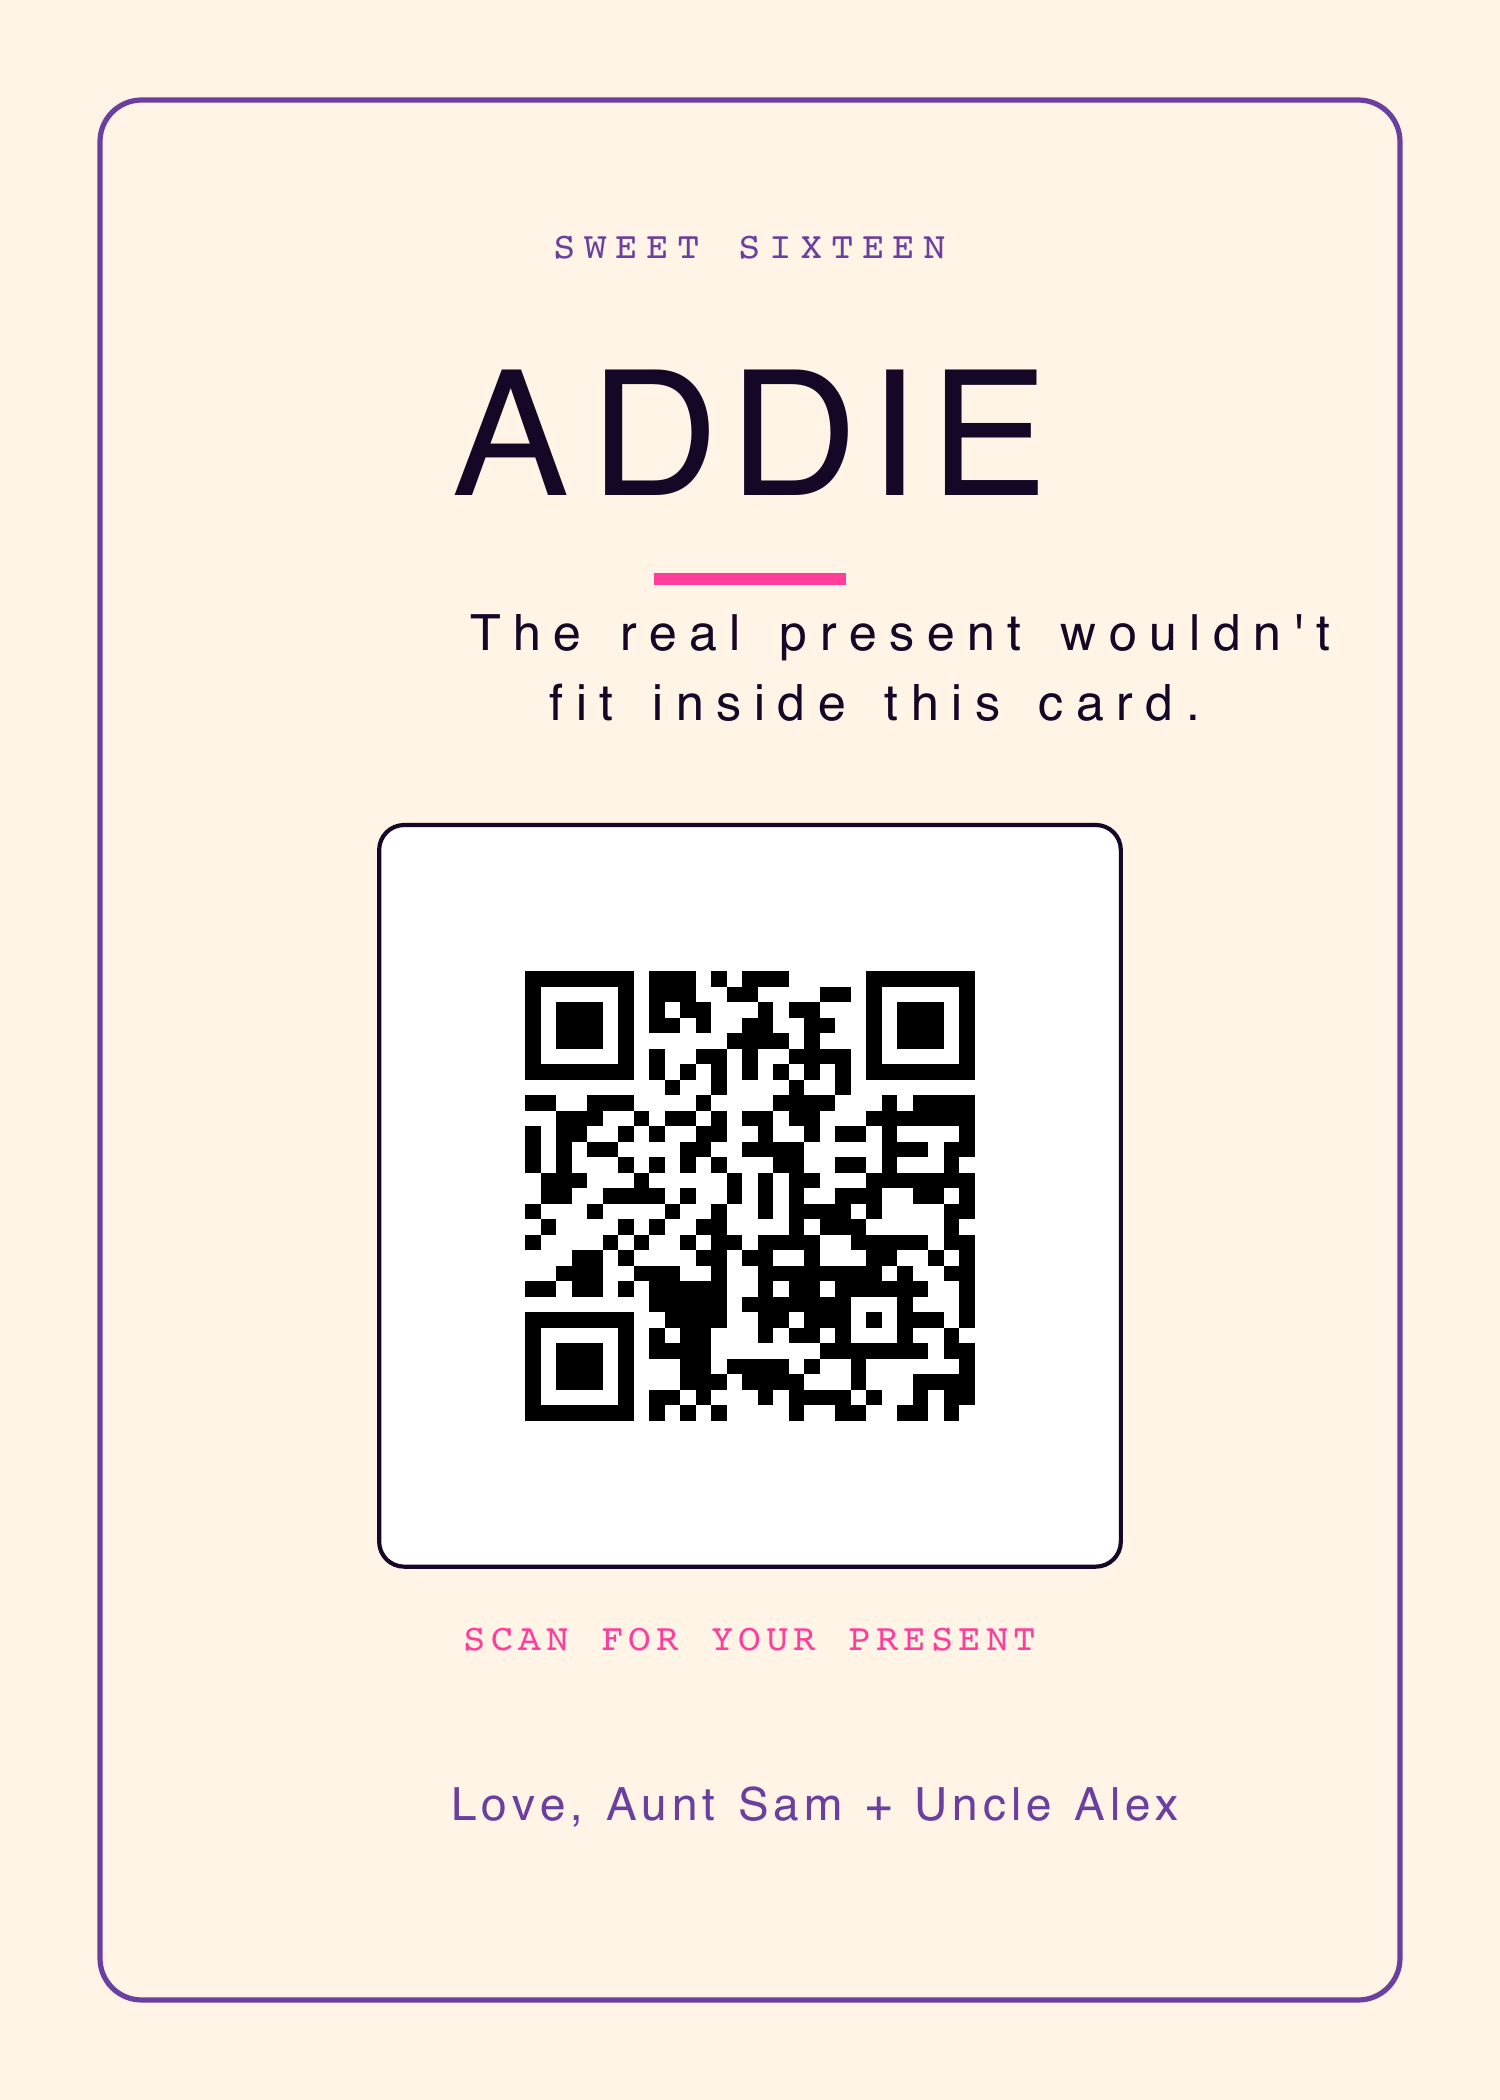
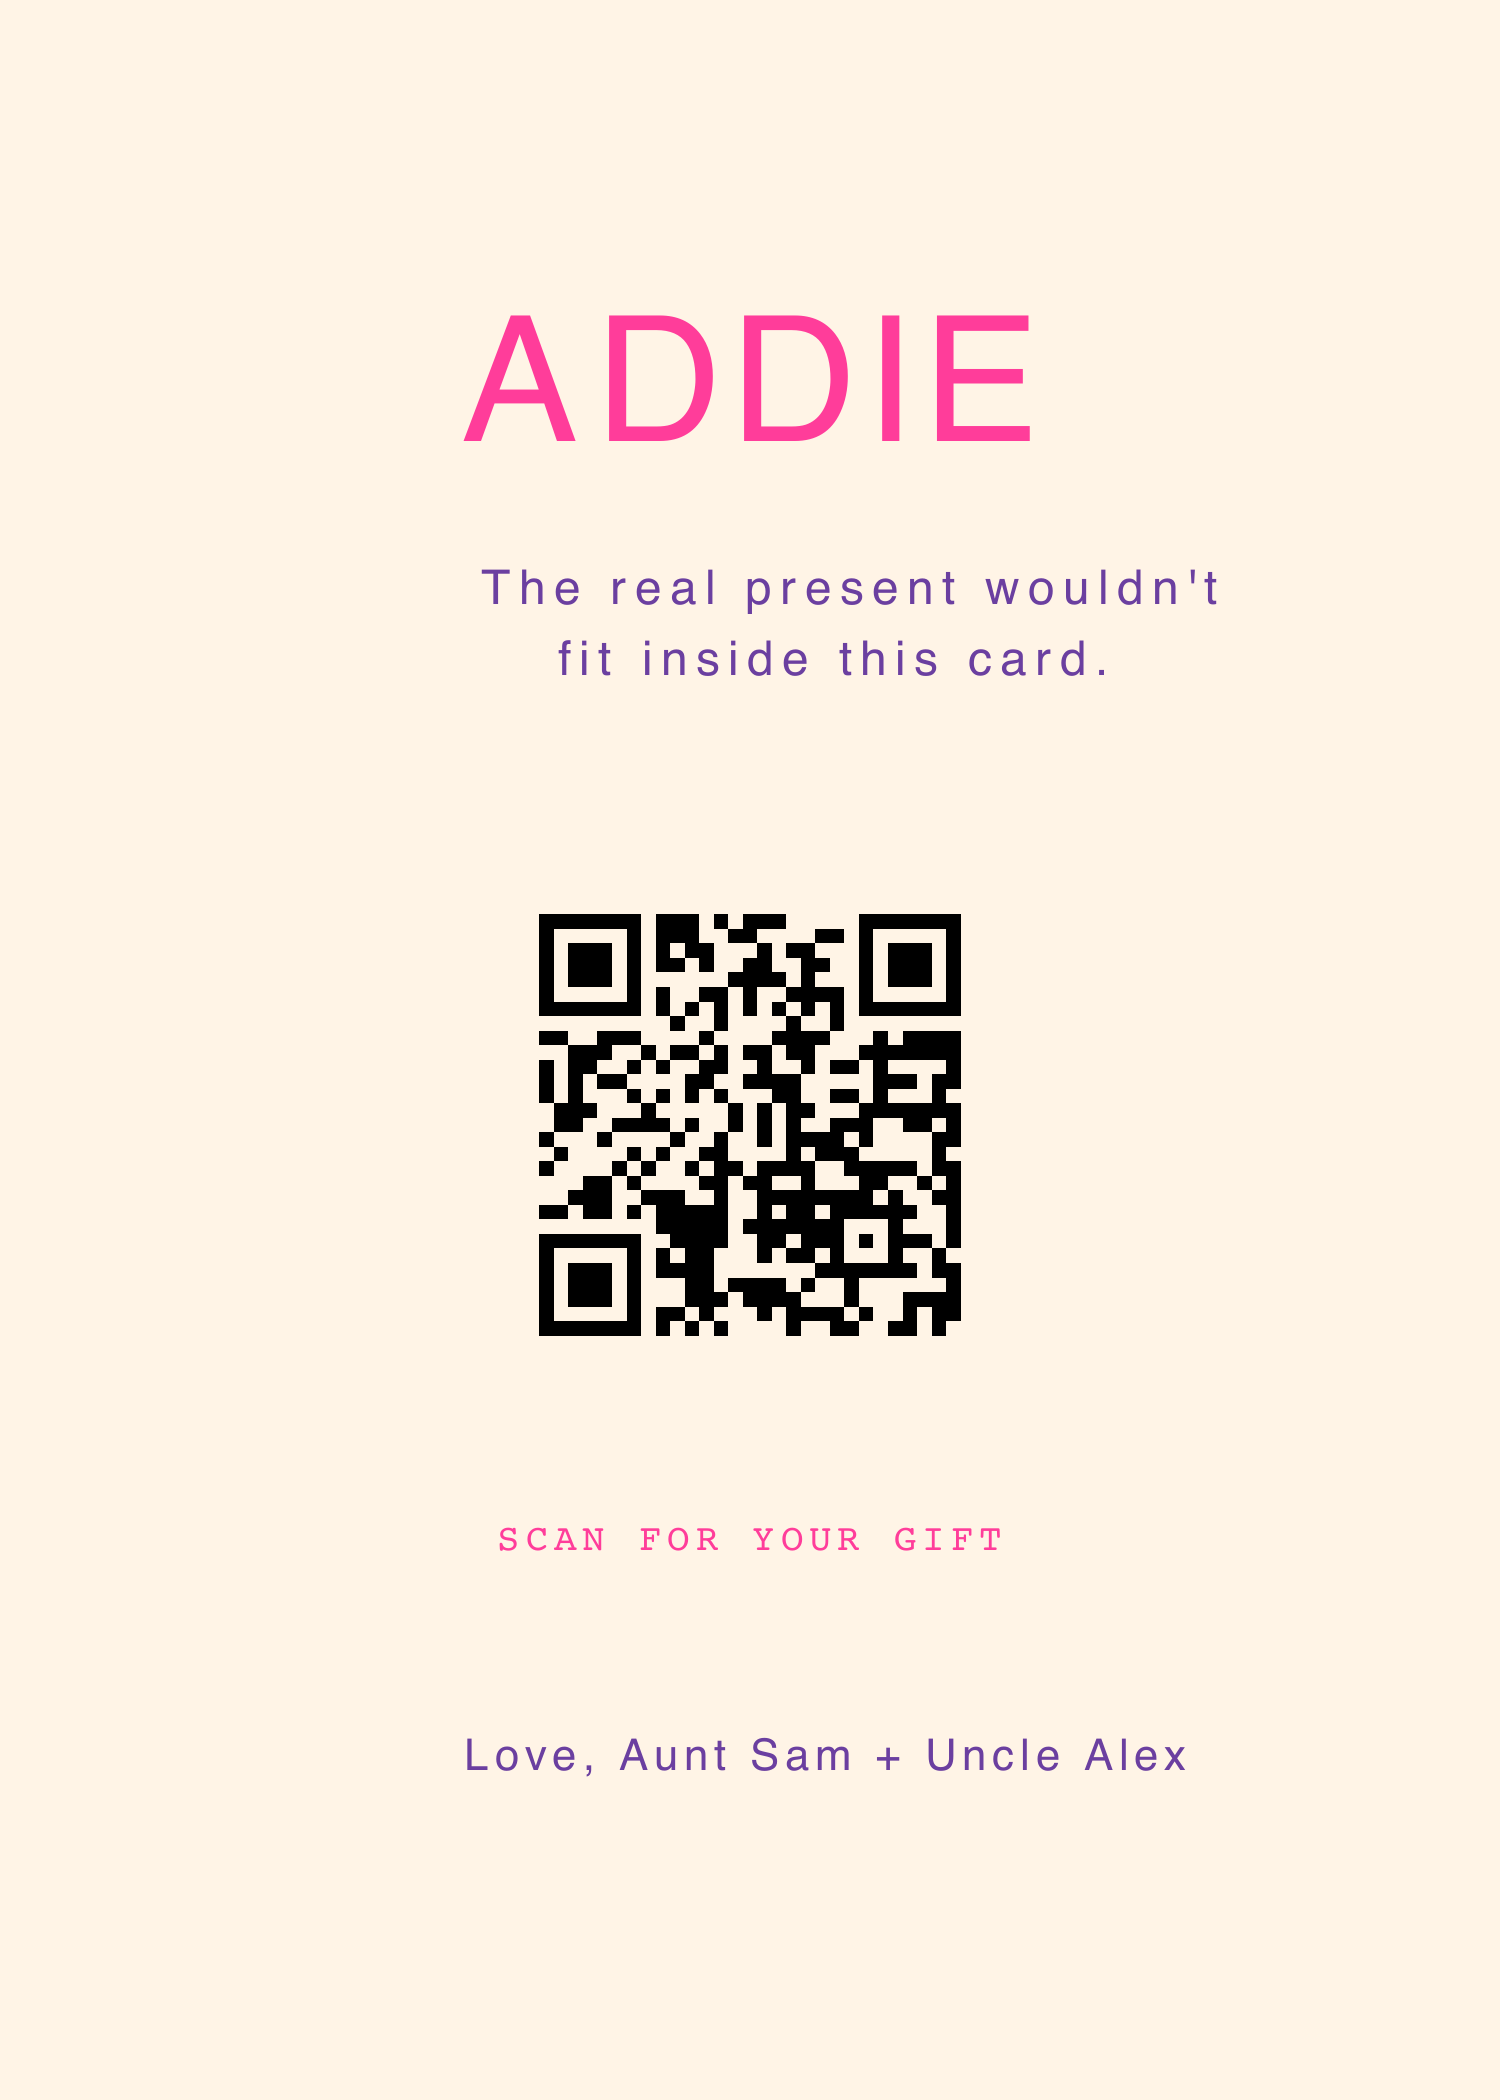
Center and simplify card insert

diff --git a/scripts/generate_card_inserts.py b/scripts/generate_card_inserts.py
@@ -4,7 +4,7 @@ from PIL import Image, ImageDraw
 from reportlab.graphics import renderPDF
 from reportlab.graphics.barcode.qr import QrCodeWidget
 from reportlab.graphics.shapes import Drawing, Group, Rect
-from reportlab.lib.colors import HexColor, white
+from reportlab.lib.colors import HexColor
 from reportlab.lib.pagesizes import inch
 from reportlab.pdfbase.pdfmetrics import stringWidth
 from reportlab.pdfgen import canvas
@@ -16,15 +16,13 @@ PAGE = (5 * inch, 7 * inch)
 
 INK = HexColor("#150726")
 PINK = HexColor("#ff3d9a")
-LIME = HexColor("#ccff33")
 CREAM = HexColor("#fff4e6")
-TAPE = HexColor("#ffe45c")
 PURPLE = HexColor("#6b3fa0")
 
 
 def qr_drawing(size):
     drawing = Drawing(size, size)
-    drawing.add(Rect(0, 0, size, size, fillColor=white, strokeColor=None))
+    drawing.add(Rect(0, 0, size, size, fillColor=CREAM, strokeColor=None))
     widget = QrCodeWidget(URL)
     x0, y0, x1, y1 = widget.getBounds()
     scale = (size * 0.86) / max(x1 - x0, y1 - y0)
@@ -75,31 +73,17 @@ def draw_insert(path):
     c.setFillColor(CREAM)
     c.rect(0, 0, width, height, fill=1, stroke=0)
 
-    c.setStrokeColor(PURPLE)
-    c.setLineWidth(1.25)
-    c.roundRect(24, 24, width - 48, height - 48, 10, fill=0, stroke=1)
+    centered(c, "ADDIE", 398, "Helvetica-Bold", 42, PINK, 2)
+    centered(c, "The real present wouldn't", 359, "Helvetica", 11.5, PURPLE)
+    centered(c, "fit inside this card.", 342, "Helvetica", 11.5, PURPLE)
 
-    centered(c, "SWEET SIXTEEN", height - 62, "Courier-Bold", 9, PURPLE, 2)
-    centered(c, "ADDIE", height - 119, "Helvetica-Bold", 42, INK, 3)
-
-    c.setStrokeColor(PINK)
-    c.setLineWidth(3)
-    c.line(width / 2 - 23, height - 139, width / 2 + 23, height - 139)
-
-    centered(c, "The real present wouldn't", 348, "Helvetica", 12, INK)
-    centered(c, "fit inside this card.", 331, "Helvetica", 12, INK)
-
-    qr_size = 160
+    qr_size = 150
     qr_x = (width - qr_size) / 2
-    qr_y = 137
-    c.setFillColor(white)
-    c.setStrokeColor(INK)
-    c.setLineWidth(1)
-    c.roundRect(qr_x - 9, qr_y - 9, qr_size + 18, qr_size + 18, 6, fill=1, stroke=1)
+    qr_y = 159
     renderPDF.draw(qr_drawing(qr_size), c, qr_x, qr_y)
 
-    centered(c, "SCAN FOR YOUR PRESENT", 108, "Courier-Bold", 9, PINK, 1.2)
-    centered(c, "Love, Aunt Sam + Uncle Alex", 67, "Helvetica-Oblique", 11, PURPLE)
+    centered(c, "SCAN FOR YOUR GIFT", 132, "Courier-Bold", 9, PINK, 1.4)
+    centered(c, "Love, Aunt Sam + Uncle Alex", 79, "Helvetica-Oblique", 10.5, PURPLE)
 
     c.showPage()
     c.save()
